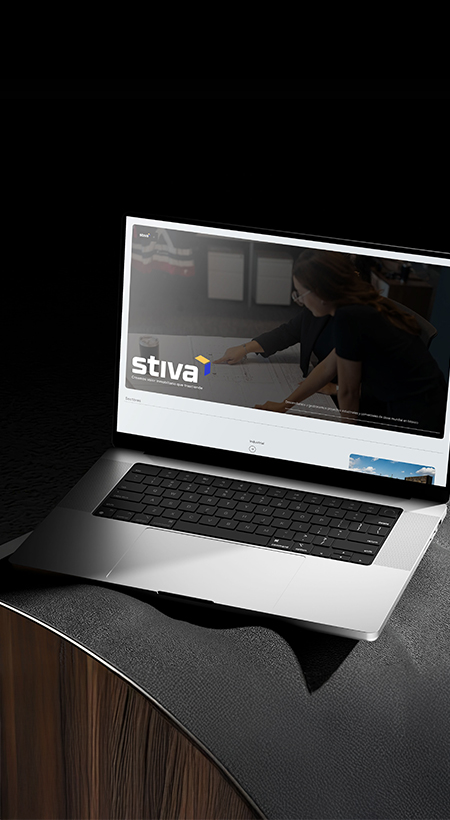
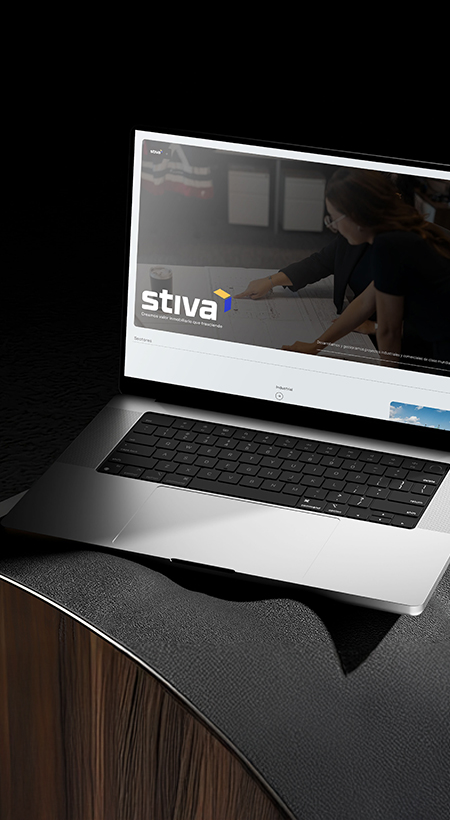
Fix hero

diff --git a/src/components/sections/Hero.jsx b/src/components/sections/Hero.jsx
@@ -8,6 +8,8 @@ const Hero = ({
     buttonText = "Start here",
     buttonLink = "/contact",
     desktopTitleFontSize = "64px",
+    mobileTitleFontSize = "50px",
+    mobileDescriptionFontSize = "20px",
 }) => {
     return (
         <section className="relative w-full overflow-hidden bg-gray pt-20">
@@ -28,6 +30,7 @@ const Hero = ({
                         alt={title}
                         className="w-full h-full bg-cover"
                     />
+                    {/* Capa de opacidad */}
 
                     {/* Contenido superpuesto - desktop */}
                     <div
@@ -90,15 +93,17 @@ const Hero = ({
                         alt={title}
                         className="w-full h-full object-cover"
                     />
+                    {/* Capa de opacidad */}
+                    <div className="absolute inset-0 bg-black bg-opacity-30"></div>
 
                     {/* Contenido superpuesto - móvil */}
                     <div className="absolute inset-0 flex flex-col justify-center p-8">
                         <h1
                             className="text-white mb-8 leading-tight"
                             style={{
-                                fontSize: "30px",
+                                fontSize: mobileTitleFontSize,
                                 fontWeight: 400,
-                                lineHeight: "30px",
+                                lineHeight: mobileTitleFontSize,
                             }}
                         >
                             {title.split("\n").map((line, index) => (
@@ -109,7 +114,7 @@ const Hero = ({
                         <p
                             className="text-white mb-10 max-w-xs"
                             style={{
-                                fontSize: "15px",
+                                fontSize: mobileDescriptionFontSize,
                                 fontWeight: 500,
                                 lineHeight: "1.5",
                             }}

diff --git a/src/pages/Services.jsx b/src/pages/Services.jsx
@@ -15,7 +15,6 @@ const Services = () => {
                 buttonText="Our Work"
                 buttonLink="/portfolio"
                 desktopTitleFontSize="78px"
-                mobileImagePosition="right"
             />
             <ServicesSection />
             <PortfolioServicesSection />

diff --git a/src/pages/About.jsx b/src/pages/About.jsx
@@ -12,6 +12,7 @@ const About = () => {
         backgroundImage="/images/about-hero.png"
         buttonText="Learn More"
         buttonLink="/services"
+        mobileTitleFontSize='40px'
       />
       <TeamSection />
       <AboutHeroSection />
